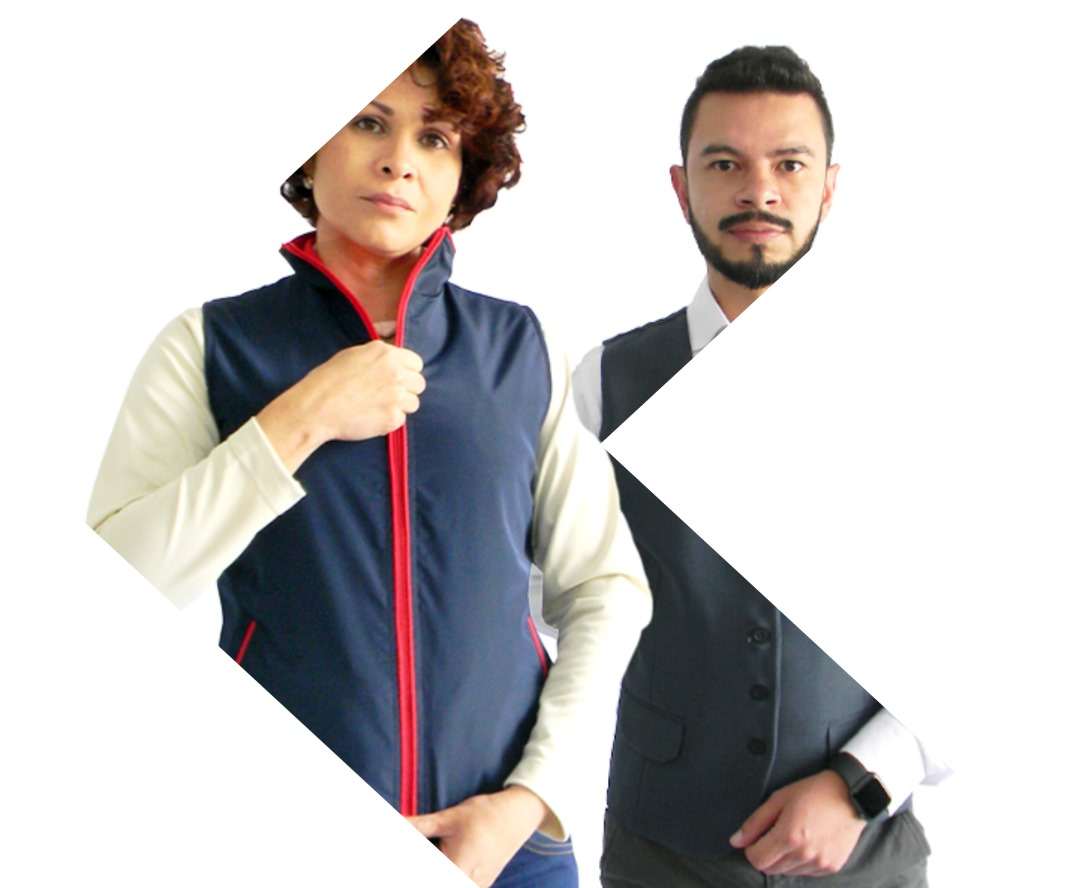
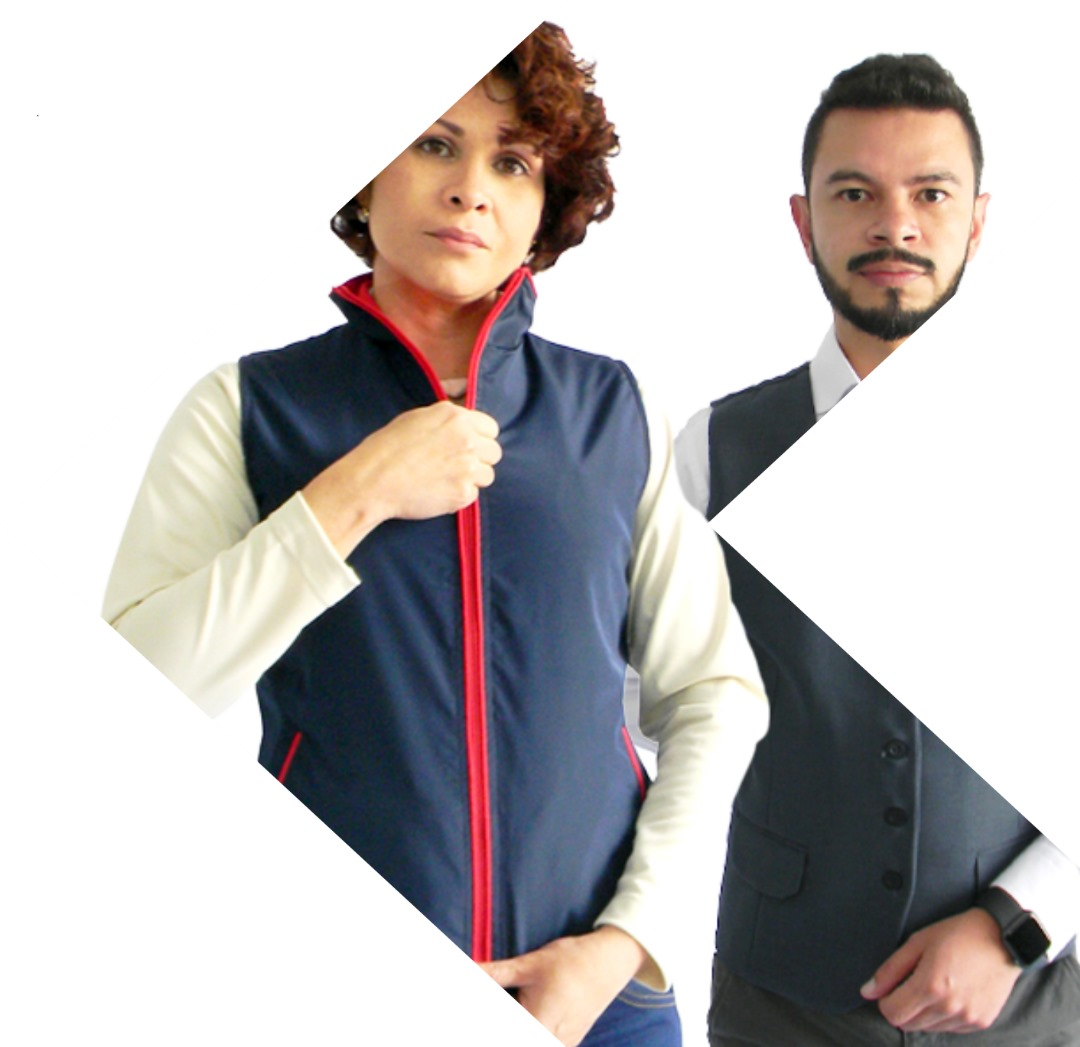
Cambios en Footer

diff --git a/public/css/styles.css b/public/css/styles.css
@@ -67,7 +67,7 @@ nav a:hover{
 
 main{
     width: 100%;
-    height: 75vh;
+    height: 80vh;
     display: flex;
     justify-content:center;
     align-items: center; 
@@ -175,14 +175,49 @@ main{
 footer{
     background-color: var(--blue-deep);
     width: 100%;
-    height: 15rem;
-    display: grid;
-    grid-template-columns: 1fr 1fr;
+    height: auto;
+    text-align: center;
     align-items: center;
     font-size: 1.3rem;
     border-top: 1px solid #e4e4e4;
-    padding: 2.5rem;
+    padding: 0.5rem;
+    line-height: 20px;
+    color: white;
 }
+
+footer .footer-list{
+    display: flex;
+    justify-content: center;
+    align-items: center;
+}
+
+footer .footer-list li{
+    list-style: none;
+}
+
+footer .footer-list li a{
+    width: 25px;
+    margin: 10px;
+    text-decoration: none;
+    list-style: none;
+}
+
+footer a{
+    text-decoration: none;
+    list-style: none;
+    color: white;
+}
+
+footer .social-container a img{
+    margin: 10px 10px;
+    width: 30px;
+}
+
+footer .social-container a img:hover {
+    transform:scale(1.1);
+    cursor: pointer;
+}
+
 
 .newProduct-form{
     display: flex;
@@ -234,9 +269,8 @@ footer{
 
 .main-home{
     width: 100%;
-    height: auto;
     margin-top: 20px;
-    padding: 20px;
+    
 }
 
 .main-home .main-home-section1{
@@ -273,7 +307,7 @@ footer{
 
 .main-home-section1 img{
     height: 70vh;
-    margin-right:-140px;
+    
 }
 .homeButton{
     background-color: #00BF63;

diff --git a/public/home.html b/public/home.html
@@ -3,7 +3,7 @@
 <head>
     <meta charset="UTF-8">
     <meta name="viewport" content="width=device-width, initial-scale=1.0">
-    <title>Trajes Alexander</title>
+    <title>U.I.C</title>
     <link rel="stylesheet" href="./css/styles.css">
 </head>
 <body>
@@ -33,25 +33,23 @@
         
       </section>
         
-        
     </main>
 
-  
-    <script src="./js/main.js"> </script>
-
     <footer>
-        <nav>
-          <a href="#">Acerca de nosotros</a>
-          <a href="#">Servicios</a>
-          <a href="#">Contacto</a>
-        </nav>
-        <p>&copy; 2024 Nombre de la empresa. Todos los derechos reservados.</p>
-        <a href="mailto:contacto@empresa.com">Contáctenos</a>
-        <ul>
+            <ul class="footer-list">
           <li><a href="#">Términos de servicio</a></li>
           <li><a href="#">Política de privacidad</a></li>
         </ul>
-      </footer>      
+        <a href="mailto:contacto@empresa.com">Contáctenos</a>
+        <div class="social-container">
+          <a><img src="./assets/icons/whatsapp_icon.svg"></a>
+          <a><img src="./assets/icons/instagram_icon.svg"></a>
+          <a><img src="./assets/icons/facebook-icons.svg"></a>
+        </div>
+        <p>&copy; 2024 Imagen Corporativa U.I.C. Todos los derechos reservados.</p>
+      </footer>  
+  
+      <script src="./js/main.js"> </script>
+    
 </body>
-
 </html>

diff --git a/public/login.html b/public/login.html
@@ -16,7 +16,7 @@
   </nav>
   </header>
 
-  <main>
+  <main class="main-home">
   <div class="login">
     <div class="form-container">
       <h1>Iniciar Sesion</h1>
@@ -50,18 +50,19 @@
 </script>
 
 <footer>
-  <nav>
-    <a href="#">Acerca de nosotros</a>
-    <a href="#">Servicios</a>
-    <a href="#">Contacto</a>
-  </nav>
-  <p>&copy; 2024 Nombre de la empresa. Todos los derechos reservados.</p>
-  <a href="mailto:contacto@empresa.com">Contáctenos</a>
-  <ul>
-    <li><a href="#">Términos de servicio</a></li>
-    <li><a href="#">Política de privacidad</a></li>
-  </ul>
-</footer>
+  <ul class="footer-list">
+<li><a href="#">Términos de servicio</a></li>
+<li><a href="#">Política de privacidad</a></li>
+</ul>
+<a href="mailto:contacto@empresa.com">Contáctenos</a>
+<div class="social-container">
+<a><img src="./assets/icons/whatsapp_icon.svg"></a>
+<a><img src="./assets/icons/instagram_icon.svg"></a>
+<a><img src="./assets/icons/facebook-icons.svg"></a>
+</div>
+<p>&copy; 2024 Imagen Corporativa U.I.C. Todos los derechos reservados.</p>
+</footer>  
+
 
 </body>
 </html>

diff --git a/public/register.html b/public/register.html
@@ -46,18 +46,19 @@
   </main>
 
   <footer>
-    <nav>
-      <a href="#">Acerca de nosotros</a>
-      <a href="#">Servicios</a>
-      <a href="#">Contacto</a>
-    </nav>
-    <p>&copy; 2024 Nombre de la empresa. Todos los derechos reservados.</p>
-    <a href="mailto:contacto@empresa.com">Contáctenos</a>
-    <ul>
-      <li><a href="#">Términos de servicio</a></li>
-      <li><a href="#">Política de privacidad</a></li>
-    </ul>
-  </footer>
+    <ul class="footer-list">
+  <li><a href="#">Términos de servicio</a></li>
+  <li><a href="#">Política de privacidad</a></li>
+</ul>
+<a href="mailto:contacto@empresa.com">Contáctenos</a>
+<div class="social-container">
+  <a><img src="./assets/icons/whatsapp_icon.svg"></a>
+  <a><img src="./assets/icons/instagram_icon.svg"></a>
+  <a><img src="./assets/icons/facebook-icons.svg"></a>
+</div>
+<p>&copy; 2024 Imagen Corporativa U.I.C. Todos los derechos reservados.</p>
+</footer>  
+
   
 <script src="./js/main.js"> </script>
 
@@ -67,6 +68,5 @@
   }
 </script>
 
-  <script src="./js/main.js"></script>
 </body>
 </html>

diff --git a/public/products.html b/public/products.html
@@ -35,19 +35,20 @@
   </form>
 </main>
 
-  <footer>
-    <nav>
-      <a href="#">Acerca de nosotros</a>
-      <a href="#">Servicios</a>
-      <a href="#">Contacto</a>
-    </nav>
-    <p>&copy; 2024 Nombre de la empresa. Todos los derechos reservados.</p>
-    <a href="mailto:contacto@empresa.com">Contáctenos</a>
-    <ul>
-      <li><a href="#">Términos de servicio</a></li>
-      <li><a href="#">Política de privacidad</a></li>
-    </ul>
-  </footer>
+<footer>
+  <ul class="footer-list">
+<li><a href="#">Términos de servicio</a></li>
+<li><a href="#">Política de privacidad</a></li>
+</ul>
+<a href="mailto:contacto@empresa.com">Contáctenos</a>
+<div class="social-container">
+<a><img src="./assets/icons/whatsapp_icon.svg"></a>
+<a><img src="./assets/icons/instagram_icon.svg"></a>
+<a><img src="./assets/icons/facebook-icons.svg"></a>
+</div>
+<p>&copy; 2024 Imagen Corporativa U.I.C. Todos los derechos reservados.</p>
+</footer>  
+
   
   <script src="./js/main.js"></script>
 </body>

diff --git a/public/putProduct.html b/public/putProduct.html
@@ -24,6 +24,21 @@
     <input type="submit">
   </form>
 
+  <footer>
+    <ul class="footer-list">
+  <li><a href="#">Términos de servicio</a></li>
+  <li><a href="#">Política de privacidad</a></li>
+</ul>
+<a href="mailto:contacto@empresa.com">Contáctenos</a>
+<div class="social-container">
+  <a><img src="./assets/icons/whatsapp_icon.svg"></a>
+  <a><img src="./assets/icons/instagram_icon.svg"></a>
+  <a><img src="./assets/icons/facebook-icons.svg"></a>
+</div>
+<p>&copy; 2024 Imagen Corporativa U.I.C. Todos los derechos reservados.</p>
+</footer>  
+
+
   <script src="./js/main.js"></script>
 </body>
 </html>
